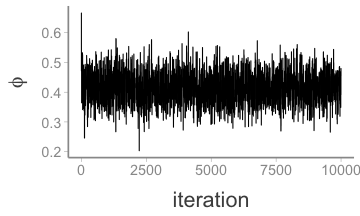
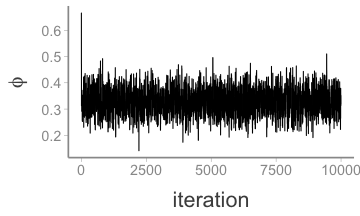
Update lecture 5

diff --git a/docs/articles/Lecture5/Lecture5.html b/docs/articles/Lecture5/Lecture5.html
@@ -1,8 +1,8 @@
 <!DOCTYPE html>
-<html xmlns="http://www.w3.org/1999/xhtml" lang="" xml:lang="">
+<html>
   <head>
     <title>Lecture 5</title>
-    <meta charset="utf-8" />
+    <meta charset="utf-8">
     <meta name="author" content="   WILD6900 (Spring 2020)" />
     <link href="libs/remark-css/default.css" rel="stylesheet" />
     <link rel="stylesheet" href="WILD6900.css" type="text/css" />
@@ -190,7 +190,8 @@ norm_df &lt;- data.frame(samples = rnorm(5000))    # Generate samples from distr
 - A natural choice for this likelihood is the binomial distribution  
 
 
---
+---
+## Implementing a simple MCMC
 
 #### Simulate data, assuming the true survival probability is `\(\large 40\%\)`:
 
@@ -204,7 +205,7 @@ phi &lt;- 0.4   # True survival probability
 ```
 
 ```
-## [1]  9  8 10  7  8
+## [1] 6 7 6 9 5
 ```
 
 ---
@@ -219,7 +220,7 @@ phi &lt;- 0.4   # True survival probability
 
 --
 
-#### Still, let's assume we don't know much about the survival of our study organism other than that it's probably not less than ~20% and probably not more than ~50%  
+#### Assume we know survival is probably `\(\gt \sim 20\%\)` and `\(\lt \sim 50\%\)`  
 
 - A reasonable prior to represent this knowledge might be `\(beta(2,4)\)`
 
@@ -232,9 +233,9 @@ phi &lt;- 0.4   # True survival probability
 
 
 ```r
-joint &lt;- function(data, N, p, a, b){
-  ll &lt;- sum(dbinom(data, size = N, prob = p, log = TRUE)) + 
-        dbeta(x = p, shape1 = a, shape2 = b, log = TRUE)
+joint &lt;- function(data, N, phi, a, b){
+  ll &lt;- sum(dbinom(data, size = N, prob = phi, log = TRUE)) + 
+        dbeta(x = phi, shape1 = a, shape2 = b, log = TRUE)
   return(ll)
 }
 ```
@@ -267,11 +268,11 @@ class: inverse, class, middle
 
 --
 
-2) Compute probability of accepting `\(\theta^*\)` using the joint distributions evaluated at `\(\theta^*\)` and `\(\theta^{k-1}\)`  
+2) Compute probability of accepting `\(\theta^*\)` using the joint distributions evaluated at `\(\theta^*\)` and `\(\theta^1\)`  
 
 --
 
-3) Accept `\(\theta*\)` (i.e., `\(\theta^{k} = \theta^*\)`) with the probability estimated in step 2, otherwise retain the previous value (i.e., `\(\theta^{k} = \theta^{k-1}\)`)  
+3) Accept `\(\theta^*\)` (i.e., `\(\theta^{2} = \theta^*\)`) with the probability estimated in step 2, otherwise retain the previous value (i.e., `\(\theta^{2} = \theta^{1}\)`)  
 
 ???
 
@@ -352,7 +353,10 @@ set.seed(123456)
 
 `$$\Large [\theta^*|\theta^{k-1}]$$` 
 
---
+---
+## MCMC: basic steps
+
+### Step 1: Propose a new value
 
 #### For example, we could use a normal proposal distribution:
 
@@ -386,7 +390,7 @@ set.seed(123456)
 
 #### We could instead use a beta distribution and use moment matching to define `\(\large \alpha\)` and `\(\large \beta\)` in terms of `\(\large \theta^{k-1}\)` (the mean) and `\(\large \sigma^2\)`:
 
-`$$\large \theta^* \sim beta\Bigg(\theta^{k-1}\bigg(\frac{\theta^{k-1}(1-\theta^{k-1})}{\sigma^2}-1\bigg), (1-\theta^{k-1})\bigg(\frac{\theta^{k-1}(1-\theta^{k-1})}{\sigma^2}-1\bigg)\Bigg)$$`
+`$$\theta^* \sim beta\Bigg(\theta^{k-1}\bigg(\frac{\theta^{k-1}(1-\theta^{k-1})}{\sigma^2}-1\bigg), (1-\theta^{k-1})\bigg(\frac{\theta^{k-1}(1-\theta^{k-1})}{\sigma^2}-1\bigg)\Bigg)$$`
 
 ---
 ## MCMC: basic steps
@@ -397,9 +401,9 @@ set.seed(123456)
 
 
 ```r
-proposal &lt;- function(p, sigma2){
-  alpha &lt;- p * ((p * (1 - p) / sigma2) - 1)
-  beta &lt;- (1 - p) * ((p * (1 - p) / sigma2) - 1)
+proposal &lt;- function(phi, sigma2){
+  alpha &lt;- phi * ((phi * (1 - phi) / sigma2) - 1)
+  beta &lt;- (1 - phi) * ((phi * (1 - phi) / sigma2) - 1)
   
   proposal &lt;- rbeta(n = 1, shape1 = alpha, shape2 = beta)
   return(proposal)
@@ -467,7 +471,7 @@ These, of course, are the posterior probabilities of `\(\theta^*\)` and `\(\thet
 
 --
 
-#### At first blush, you might assume that we reject  `\(\large \theta^*\)` when `\(\large R \lt 1\)`  
+At first blush, you might assume that we reject  `\(\large \theta^*\)` when `\(\large R \lt 1\)`  
 
 - However, if we did this, we would rarely sample values of `\(\theta\)` in the tails `\(^1\)` 
 
@@ -496,7 +500,7 @@ posterior &lt;- data.frame(iteration = 1:n.samples,
                         phi = rep(NA, n.samples),
                         accept = rep(0, n.samples)) # Empty vector to store samples of phi
 
-p &lt;- init     # Initial value
+phi &lt;- init     # Initial value
 ```
 
 ---
@@ -509,19 +513,19 @@ Next, we run the sampler:
 
 ```r
 for(i in 1:n.samples){
-  p.cand &lt;- proposal(p = p, sigma2 = sigma2)   ## Proposal
+  phi.cand &lt;- proposal(phi = phi, sigma2 = sigma2)   ## Proposal
   
-  l.R &lt;- (joint(data = n, N = 20, p = p.cand, a = 2, b = 4) - ## log(R)
-            joint(data = n, N = 20, p = p, a = 2, b = 4))
+  l.R &lt;- (joint(data = n, N = 20, phi = phi.cand, a = 2, b = 4) - ## log(R)
+            joint(data = n, N = 20, phi = phi, a = 2, b = 4))
   
   R &lt;- min(1, exp(l.R))   ## R
   
   if(runif(1) &lt; R){
-    p &lt;- p.cand
+    phi &lt;- phi.cand
     posterior$accept[i] &lt;- 1
   }
   
-  posterior$phi[i] &lt;- p
+  posterior$phi[i] &lt;- phi
 }
 ```
 
@@ -576,7 +580,7 @@ mean(posterior$phi)
 ```
 
 ```
-## [1] 0.4139
+## [1] 0.3258
 ```
 
 Pretty close (that a good sign that our Metropolis sampler did what we wanted it to do!)
@@ -595,7 +599,7 @@ quantile(posterior$phi)
 
 ```
 ##     0%    25%    50%    75%   100% 
-## 0.2032 0.3814 0.4132 0.4456 0.6665
+## 0.1413 0.2941 0.3254 0.3554 0.6665
 ```
 
 Quantiles are useful for determining the 95% *credible intervals* of the posterior: `\(^1\)`
@@ -607,10 +611,10 @@ quantile(posterior$phi, probs = c(0.025, 0.975))
 
 ```
 ##   2.5%  97.5% 
-## 0.3188 0.5134
+## 0.2373 0.4210
 ```
 
-This allows us to make statements like "there is a 95% chance that `\(\phi\)` is between 0.32 and 0.51" `\(^2\)`
+This allows us to make statements like "there is a 95% chance that `\(\phi\)` is between 0.24 and 0.42" `\(^2\)`
 
 ???
 
@@ -740,7 +744,7 @@ class: inverse, middle, center
 ---
 ## Evaluating Markov chains
 
-#### The most important characteristic of MCMC chains is **convergence**  
+The most important characteristic of MCMC chains is **convergence**  
 
 --
 - Convergence occurs when the accumulated samples accurately characterize the posterior distribution of a parameter
@@ -748,7 +752,7 @@ class: inverse, middle, center
 
 --
 
-#### Once a chain has converged, adding more samples will not meaningfully change the shape or moments of the posterior distribution  
+Once a chain has converged, adding more samples will not meaningfully change the shape or moments of the posterior distribution  
 
 --
 - At this point, a chain is *stationary* because more samples will not cause it to "move" `\(^1\)`
@@ -867,7 +871,6 @@ Solving lack of identifiability is harder
 
 `\(^2\)` Most MCMC software (JAGS, Bugs, etc) use an adaptive phase,  during with the samplers used by the model may modify their behavior for increased efficiency. This is usually done behind the scenes but as highlighted in the linked post, being aware of what the software is doing can be useful for improving mixing
     </textarea>
-<style data-target="print-only">@media screen {.remark-slide-container{display:block;}.remark-slide-scaler{box-shadow:none;}}</style>
 <script src="https://remarkjs.com/downloads/remark-latest.min.js"></script>
 <script>var slideshow = remark.create({
 "highlightStyle": "github",
@@ -877,74 +880,16 @@ Solving lack of identifiability is harder
 if (window.HTMLWidgets) slideshow.on('afterShowSlide', function (slide) {
   window.dispatchEvent(new Event('resize'));
 });
-(function(d) {
-  var s = d.createElement("style"), r = d.querySelector(".remark-slide-scaler");
+(function() {
+  var d = document, s = d.createElement("style"), r = d.querySelector(".remark-slide-scaler");
   if (!r) return;
   s.type = "text/css"; s.innerHTML = "@page {size: " + r.style.width + " " + r.style.height +"; }";
   d.head.appendChild(s);
-})(document);
-
-(function(d) {
-  var el = d.getElementsByClassName("remark-slides-area");
-  if (!el) return;
-  var slide, slides = slideshow.getSlides(), els = el[0].children;
-  for (var i = 1; i < slides.length; i++) {
-    slide = slides[i];
-    if (slide.properties.continued === "true" || slide.properties.count === "false") {
-      els[i - 1].className += ' has-continuation';
-    }
-  }
-  var s = d.createElement("style");
-  s.type = "text/css"; s.innerHTML = "@media print { .has-continuation { display: none; } }";
-  d.head.appendChild(s);
-})(document);
-// delete the temporary CSS (for displaying all slides initially) when the user
-// starts to view slides
-(function() {
-  var deleted = false;
-  slideshow.on('beforeShowSlide', function(slide) {
-    if (deleted) return;
-    var sheets = document.styleSheets, node;
-    for (var i = 0; i < sheets.length; i++) {
-      node = sheets[i].ownerNode;
-      if (node.dataset["target"] !== "print-only") continue;
-      node.parentNode.removeChild(node);
-    }
-    deleted = true;
-  });
-})();
-// adds .remark-code-has-line-highlighted class to <pre> parent elements
-// of code chunks containing highlighted lines with class .remark-code-line-highlighted
-(function(d) {
-  const hlines = d.querySelectorAll('.remark-code-line-highlighted');
-  const preParents = [];
-  const findPreParent = function(line, p = 0) {
-    if (p > 1) return null; // traverse up no further than grandparent
-    const el = line.parentElement;
-    return el.tagName === "PRE" ? el : findPreParent(el, ++p);
-  };
-
-  for (let line of hlines) {
-    let pre = findPreParent(line);
-    if (pre && !preParents.includes(pre)) preParents.push(pre);
-  }
-  preParents.forEach(p => p.classList.add("remark-code-has-line-highlighted"));
-})(document);</script>
+})();</script>
 
 <script>
 (function() {
-  var links = document.getElementsByTagName('a');
-  for (var i = 0; i < links.length; i++) {
-    if (/^(https?:)?\/\//.test(links[i].getAttribute('href'))) {
-      links[i].target = '_blank';
-    }
-  }
-})();
-</script>
-
-<script>
-slideshow._releaseMath = function(el) {
-  var i, text, code, codes = el.getElementsByTagName('code');
+  var i, text, code, codes = document.getElementsByTagName('code');
   for (i = 0; i < codes.length;) {
     code = codes[i];
     if (code.parentNode.tagName !== 'PRE' && code.childElementCount === 0) {
@@ -958,8 +903,7 @@ slideshow._releaseMath = function(el) {
     }
     i++;
   }
-};
-slideshow._releaseMath(document);
+})();
 </script>
 <!-- dynamically load mathjax for compatibility with self-contained -->
 <script>
